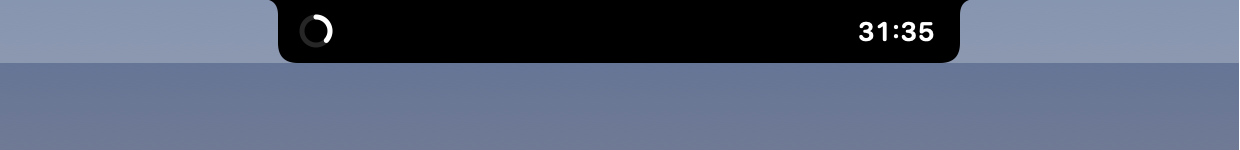
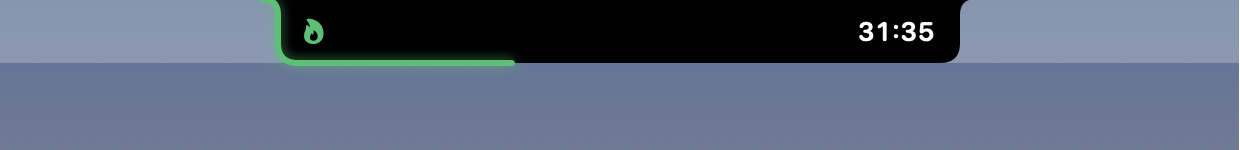
Trace progress along the notch outline, add mini heatmap to notch
- Progress stroke follows the notch outline (green running, orange paused, pulses in overtime)
- Optional: hide time beside the notch for outline-only mode (menu toggle)
- Idle notch shows the last 24 weeks heatmap, streak and weekly total

Changed region(s): [[0.2145, 0.0, 0.429, 0.4533]]

diff --git a/Sources/DeepWorkTracker/NotchViews.swift b/Sources/DeepWorkTracker/NotchViews.swift
@@ -10,7 +10,8 @@ struct NotchRootView: View {
 
     var body: some View {
         let expanded = state.isExpanded(phase: engine.phase)
-        let size = NotchLayout.size(phase: engine.phase, expanded: expanded, notch: state.notchSize)
+        let size = NotchLayout.size(phase: engine.phase, expanded: expanded, notch: state.notchSize,
+                                    wings: state.showWings)
         let shape = NotchShape(topRadius: NotchLayout.ear, bottomRadius: expanded ? 24 : 10)
         // Without a physical notch, an idle collapsed bar would just be a black blob.
         let hidden = !expanded && engine.phase == .idle && !state.hasNotch
@@ -21,6 +22,9 @@ struct NotchRootView: View {
                 .shadow(color: .black.opacity(expanded ? 0.45 : 0), radius: 14, y: 6)
             content(expanded: expanded, size: size)
                 .clipShape(shape)
+            if !expanded, engine.isActive {
+                OutlineProgress(engine: engine)
+            }
         }
         .frame(width: size.width, height: size.height)
         .opacity(hidden ? 0 : 1)
@@ -47,7 +51,7 @@ struct NotchRootView: View {
                 .frame(maxHeight: .infinity, alignment: .top)
             }
             .transition(.opacity.animation(.easeOut(duration: 0.18)))
-        } else if engine.phase != .idle {
+        } else if engine.phase != .idle, state.showWings {
             CollapsedActivity(engine: engine, notch: state.notchSize)
                 .transition(.opacity)
         }
@@ -87,13 +91,10 @@ struct CollapsedActivity: View {
                     Image(systemName: "pause.fill")
                         .font(.system(size: 11, weight: .bold))
                         .foregroundStyle(.orange)
-                } else if engine.goal == nil {
+                } else {
                     Image(systemName: "flame.fill")
                         .font(.system(size: 12))
                         .foregroundStyle(Heat.base)
-                } else {
-                    ProgressRing(progress: engine.progress, tint: engine.isOvertime ? Heat.base : .white, lineWidth: 2.5)
-                        .frame(width: 14, height: 14)
                 }
             }
             .frame(width: NotchLayout.wing, alignment: .leading)
@@ -163,17 +164,30 @@ struct IdleView: View {
                 .buttonStyle(.plain)
             }
 
-            HStack {
-                let streak = store.streak()
-                Text(streak > 0 ? "\(streak)-day streak" : "No streak yet. Today's a good day.")
-                Spacer()
+            HStack(alignment: .bottom) {
                 Button(action: openLog) {
-                    Label("Log & heatmap", systemImage: "square.grid.3x3.fill")
+                    MiniHeatmap(store: store)
                 }
                 .buttonStyle(.plain)
+                .help("Open log & heatmap")
+                Spacer()
+                VStack(alignment: .trailing, spacing: 5) {
+                    let streak = store.streak()
+                    let weekStart = Calendar.current.dateInterval(of: .weekOfYear, for: Date())?.start ?? Date()
+                    Text(streak > 0 ? "\(streak)-day streak" : "No streak yet")
+                        .foregroundStyle(.primary)
+                    Text("This week \(Fmt.hm(store.total(since: weekStart)))")
+                        .monospacedDigit()
+                    Button(action: openLog) {
+                        Label("Log & heatmap", systemImage: "arrow.up.right")
+                            .labelStyle(.titleAndIcon)
+                    }
+                    .buttonStyle(.plain)
+                    .padding(.top, 4)
+                }
+                .font(.system(size: 11, weight: .medium))
+                .foregroundStyle(.secondary)
             }
-            .font(.system(size: 11, weight: .medium))
-            .foregroundStyle(.secondary)
         }
     }
 }
@@ -310,5 +324,67 @@ struct FinishView: View {
         Text(s.uppercased())
             .font(.system(size: 10, weight: .bold))
             .foregroundStyle(.secondary)
+    }
+}
+
+/// Progress drawn along the notch outline: down the left side, across the bottom, up the right.
+struct OutlineProgress: View {
+    @ObservedObject var engine: TimerEngine
+
+    var body: some View {
+        let paused = engine.phase == .paused
+        let overtime = engine.isOvertime
+        // Open-ended blocks fill the outline once per hour.
+        let progress = engine.goal == nil
+            ? engine.elapsed.truncatingRemainder(dividingBy: 3600) / 3600
+            : (overtime ? 1 : engine.progress)
+        let tint: Color = paused ? .orange : Heat.base
+        let pulse = overtime && !paused && Int(engine.elapsed) % 2 == 0
+
+        NotchShape(topRadius: NotchLayout.ear, bottomRadius: 10, closed: false)
+            .trim(from: 0, to: max(0.004, progress))
+            .stroke(tint, style: StrokeStyle(lineWidth: 3, lineCap: .round, lineJoin: .round))
+            .shadow(color: tint.opacity(0.7), radius: 3)
+            .opacity(pulse ? 0.45 : 1)
+            .animation(.linear(duration: 1), value: progress)
+            .animation(.easeInOut(duration: 1), value: pulse)
+            .allowsHitTesting(false)
+    }
+}
+
+/// The last 24 weeks, in the same colors and metric as the dashboard heatmap.
+struct MiniHeatmap: View {
+    @ObservedObject var store: SessionStore
+    var weeks = 24
+    var cell: CGFloat = 8
+    var gap: CGFloat = 2.5
+    @AppStorage("heatMetric") private var metricRaw = HeatMetric.score.rawValue
+
+    var body: some View {
+        let cal = Calendar.current
+        let today = cal.startOfDay(for: Date())
+        let weekStart = cal.dateInterval(of: .weekOfYear, for: today)?.start ?? today
+        let first = cal.date(byAdding: .weekOfYear, value: -(weeks - 1), to: weekStart)!
+        let stats = store.dayStats()
+        let metric = HeatMetric(rawValue: metricRaw) ?? .score
+
+        HStack(spacing: gap) {
+            ForEach(0..<weeks, id: \.self) { w in
+                VStack(spacing: gap) {
+                    ForEach(0..<7, id: \.self) { d in
+                        let day = cal.date(byAdding: .day, value: w * 7 + d, to: first)!
+                        RoundedRectangle(cornerRadius: 2)
+                            .fill(Heat.color(metric.level(stats[day])))
+                            .frame(width: cell, height: cell)
+                            .overlay(
+                                RoundedRectangle(cornerRadius: 2)
+                                    .stroke(Color.white.opacity(day == today ? 0.85 : 0), lineWidth: 1)
+                            )
+                            .opacity(day > today ? 0 : 1)
+                    }
+                }
+            }
+        }
+        .contentShape(Rectangle())
     }
 }

diff --git a/Sources/DeepWorkTracker/NotchController.swift b/Sources/DeepWorkTracker/NotchController.swift
@@ -9,6 +9,10 @@ final class NotchState: ObservableObject {
     @Published var peek = false
     @Published var notchSize = CGSize(width: 185, height: 32)
     @Published var hasNotch = true
+    /// Show the time and icon in wings beside the notch, or only the outline progress.
+    @Published var showWings = UserDefaults.standard.object(forKey: "showTimeBesideNotch") as? Bool ?? true {
+        didSet { UserDefaults.standard.set(showWings, forKey: "showTimeBesideNotch") }
+    }
 
     func isExpanded(phase: TimerEngine.Phase) -> Bool {
         phase == .finishing || hovering || peek
@@ -22,14 +26,14 @@ enum NotchLayout {
     /// Width of each wing beside the notch while a block runs collapsed.
     static let wing: CGFloat = 78
 
-    static func size(phase: TimerEngine.Phase, expanded: Bool, notch: CGSize) -> CGSize {
+    static func size(phase: TimerEngine.Phase, expanded: Bool, notch: CGSize, wings: Bool = true) -> CGSize {
         if phase == .finishing {
             return CGSize(width: 480, height: notch.height + 318)
         }
         if expanded {
-            return CGSize(width: 460, height: notch.height + (phase == .idle ? 138 : 104))
+            return CGSize(width: 460, height: notch.height + (phase == .idle ? 178 : 104))
         }
-        if phase == .idle {
+        if phase == .idle || !wings {
             return CGSize(width: notch.width + 2 * ear, height: notch.height)
         }
         return CGSize(width: notch.width + 2 * ear + 2 * wing, height: notch.height)
@@ -152,7 +156,8 @@ final class NotchController {
 
     private func visibleRect(expanded: Bool) -> NSRect {
         guard let screen else { return .zero }
-        let size = NotchLayout.size(phase: engine.phase, expanded: expanded, notch: state.notchSize)
+        let size = NotchLayout.size(phase: engine.phase, expanded: expanded, notch: state.notchSize,
+                                    wings: state.showWings)
         return NSRect(x: screen.frame.midX - size.width / 2, y: screen.frame.maxY - size.height,
                       width: size.width, height: size.height)
     }

diff --git a/Sources/DeepWorkTracker/Snapshots.swift b/Sources/DeepWorkTracker/Snapshots.swift
@@ -15,11 +15,12 @@ enum Snapshots {
         seed(store)
 
         let notch = CGSize(width: 185, height: 32)
-        func notchShot(_ name: String, hovering: Bool, setup: (TimerEngine) -> Void) {
+        func notchShot(_ name: String, hovering: Bool, wings: Bool = true, setup: (TimerEngine) -> Void) {
             let engine = TimerEngine(store: store, persistsState: false)
             let state = NotchState()
             state.notchSize = notch
             state.hovering = hovering
+            state.showWings = wings
             setup(engine)
             let view = ZStack(alignment: .top) {
                 LinearGradient(colors: [Color(red: 0.35, green: 0.45, blue: 0.6), Color(red: 0.75, green: 0.6, blue: 0.55)],
@@ -33,6 +34,9 @@ enum Snapshots {
 
         notchShot("1-collapsed-running", hovering: false) { e in
             e.task = "Thesis chapter 3"; e.start(minutes: 50); e.simulate(elapsed: 18 * 60 + 25)
+        }
+        notchShot("1b-collapsed-outline-only", hovering: false, wings: false) { e in
+            e.start(minutes: 50); e.simulate(elapsed: 30 * 60)
         }
         notchShot("2-idle-expanded", hovering: true) { _ in }
         notchShot("3-running-expanded", hovering: true) { e in

diff --git a/Sources/DeepWorkTracker/Components.swift b/Sources/DeepWorkTracker/Components.swift
@@ -4,6 +4,8 @@ import SwiftUI
 struct NotchShape: Shape {
     var topRadius: CGFloat
     var bottomRadius: CGFloat
+    /// Open outline (no top edge), used to draw the progress stroke along the notch.
+    var closed = true
 
     var animatableData: AnimatablePair<CGFloat, CGFloat> {
         get { AnimatablePair(topRadius, bottomRadius) }
@@ -26,7 +28,7 @@ struct NotchShape: Shape {
         p.addLine(to: CGPoint(x: rect.maxX - tr, y: rect.minY + tr))
         p.addQuadCurve(to: CGPoint(x: rect.maxX, y: rect.minY),
                        control: CGPoint(x: rect.maxX - tr, y: rect.minY))
-        p.closeSubpath()
+        if closed { p.closeSubpath() }
         return p
     }
 }

diff --git a/Sources/DeepWorkTracker/AppDelegate.swift b/Sources/DeepWorkTracker/AppDelegate.swift
@@ -47,6 +47,10 @@ final class AppDelegate: NSObject, NSApplicationDelegate, NSMenuDelegate {
         menu.addItem(.separator())
         menu.addItem(ClosureMenuItem("Log & Heatmap", key: "l") { [weak self] in self?.showDashboard() })
 
+        let wings = ClosureMenuItem("Show Time Beside Notch") { [weak self] in self?.notch.state.showWings.toggle() }
+        wings.state = notch.state.showWings ? .on : .off
+        menu.addItem(wings)
+
         let login = ClosureMenuItem("Launch at Login") { Self.toggleLaunchAtLogin() }
         login.state = SMAppService.mainApp.status == .enabled ? .on : .off
         menu.addItem(login)

diff --git a/README.md b/README.md
@@ -2,13 +2,15 @@
 
 A macOS notch timer for deep work blocks, with a log of every block, intensity ratings, notes on how it felt, and a GitHub-style heatmap of the year.
 
-<img src="docs/notch-collapsed.png" width="620" alt="Collapsed notch while a block runs">
+<img src="docs/notch-collapsed.png" width="620" alt="Collapsed notch: progress traced along the notch outline">
+<img src="docs/notch-idle.png" width="620" alt="Expanded notch with mini heatmap">
 <img src="docs/notch-running.png" width="620" alt="Expanded notch while a block runs">
 
 ## What it does
 
 - **Lives in the notch.** Hover the notch to expand it. Pick a block length (25 / 50 / 90 / 120 min, or ∞ open-ended), name what you're working on, start.
-- **Live activity while you work.** Collapsed, the notch grows two small wings: a progress ring on the left, the countdown on the right. Orange when paused, green once you pass your goal (it chimes and keeps counting overtime, so it never breaks your flow).
+- **Progress traced along the notch.** While a block runs, a line draws itself along the notch outline: down the left side, across the bottom, up the right. Green while running, orange when paused, pulsing once you pass your goal (it chimes and keeps counting overtime, so it never breaks your flow). Open-ended blocks fill the outline once per hour. The countdown sits beside the notch; turn that off in the menu (*Show Time Beside Notch*) for outline only.
+- **Mini heatmap in the notch.** The last 24 weeks, streak, and this week's total, right under the Start button.
 - **Log every block.** When you finish, the notch asks for:
   - **Intensity** 1–5 (Shallow · Light · Focused · Deep · Flow)
   - **Sensations** as quick tags (Flow, Energized, Calm, Clear-headed, Distracted, Tired, Restless, Breakthrough)
